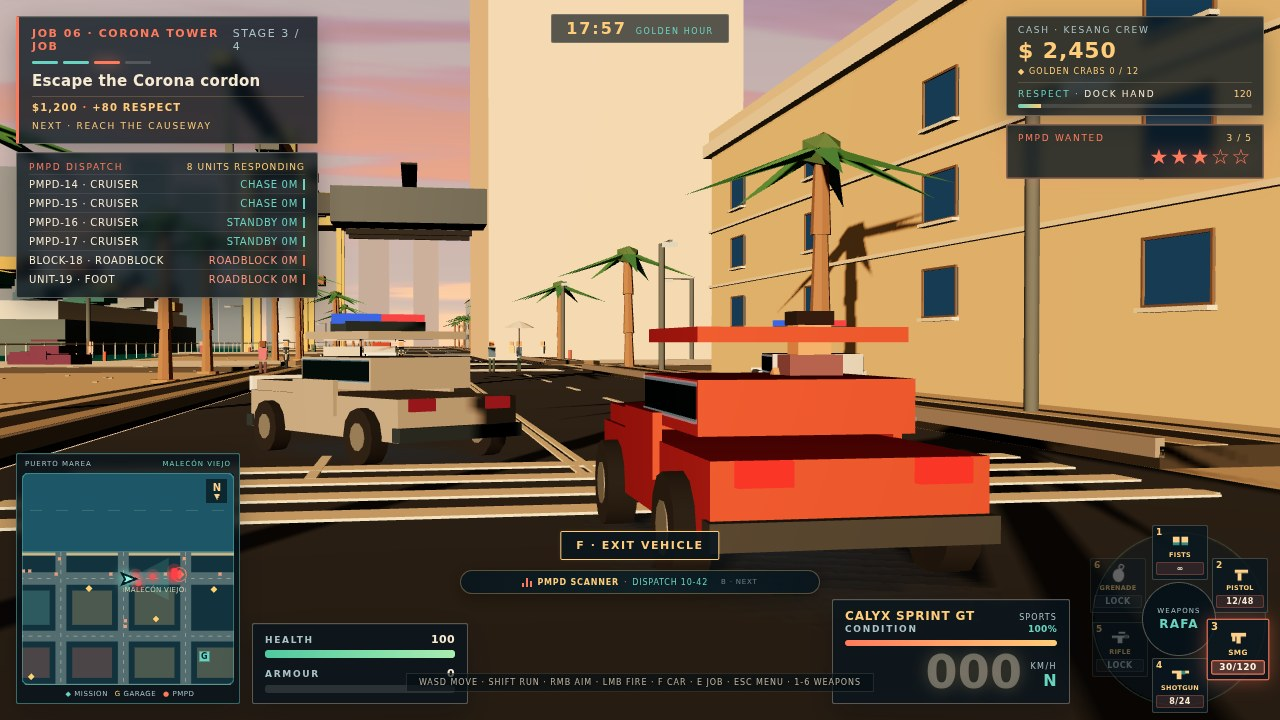
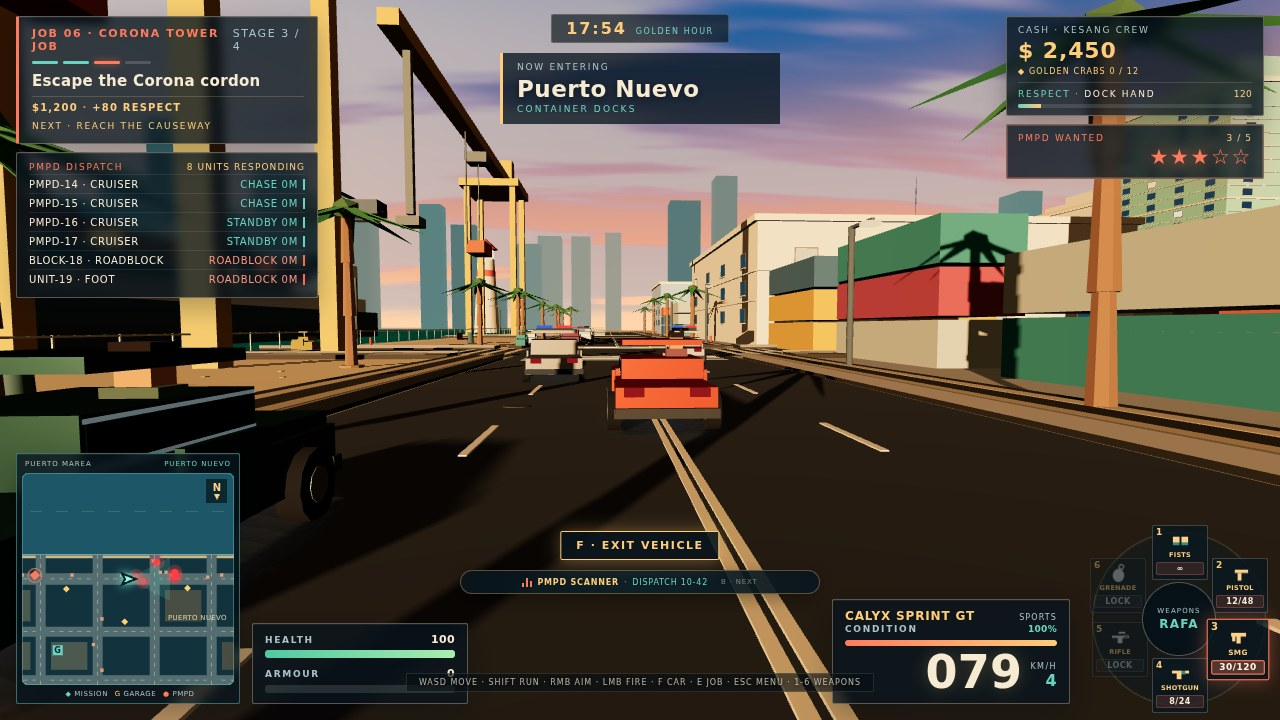
shot: round 5 wide coastal chase cover

diff --git a/game/src/ui/screenshots.js b/game/src/ui/screenshots.js
@@ -358,18 +358,16 @@ function fitHeroCamera(game, hero, forward, options = {}) {
 }
 
 async function stageChase(game) {
-  game.timeOfDay = 17.95;
+  game.timeOfDay = 17.9;
   game.engine.setTimeOfDay(game.timeOfDay);
 
-  // Keep the key light just above the waterline so the frame holds a long warm band.
-  const elevation = THREE.MathUtils.degToRad(9);
+  // Keep the key light low so the frame holds a long warm band over the water.
+  const elevation = THREE.MathUtils.degToRad(8.5);
   const azimuth = -2.72;
   const horizontal = Math.sqrt(Math.max(0.001, 1 - Math.sin(elevation) * Math.sin(elevation)));
   game.engine.sunDirection = new THREE.Vector3(Math.cos(azimuth) * horizontal, Math.sin(elevation), Math.sin(azimuth) * horizontal).normalize();
   game.engine.skyUniforms.sunDirection.value.copy(game.engine.sunDirection);
   game.engine.skyUniforms.night.value = 0;
-
-  // Warm sky bounce, so the shaded flank of the hero still reads on the dark asphalt.
   game.engine.hemi.intensity = 0.5;
   game.engine.hemi.color.set('#ffd3a6');
   game.engine.hemi.groundColor.set('#6b6250');
@@ -378,14 +376,14 @@ async function stageChase(game) {
   const hero = game.heroVehicle;
   const heading = Math.PI / 2;
   const { forward, left } = frameBasis(heading);
-  const heroPos = new THREE.Vector3(-74, 0, -21.3);
+  const heroPos = new THREE.Vector3(116, 0, -22);
 
-  game.shotSpeed = 0;
+  game.shotSpeed = 22;
   if (hero) {
     hero.position.copy(heroPos);
     hero.heading = heading;
-    hero.speed = 0;
-    hero.braking = true;
+    hero.speed = 22;
+    hero.braking = false;
     hero.mesh.position.copy(hero.position);
     hero.mesh.rotation.y = hero.heading;
     game.player.enterVehicle(hero);
@@ -411,21 +409,15 @@ async function stageChase(game) {
   game.police.dispatch = () => {};
   game.police.cooldowns.roadblock = 9999;
   game.police.update = () => {};
-  clearTrafficNear(game, heroPos, 46);
+  clearTrafficNear(game, heroPos, 60);
 
   if (hero) {
     hero.position.copy(heroPos);
     hero.heading = heading;
-    hero.speed = 0;
-    hero.braking = true;
+    hero.speed = 22;
     hero.mesh.position.copy(hero.position);
     hero.mesh.rotation.y = hero.heading;
     game.player.position.copy(hero.position);
-    const baseUpdate = hero.update.bind(hero);
-    hero.update = (dt) => {
-      baseUpdate(dt);
-      for (const lamp of hero.brakeLights) lamp.material.color.set('#ff2a20');
-    };
   }
 
   const cruisers = game.police.units.filter((unit) => unit.kind === 'CRUISER' && unit.vehicle);
@@ -433,11 +425,11 @@ async function stageChase(game) {
     const vehicle = unit.vehicle;
     if (!vehicle) return;
     if (index < 2) {
-      const ahead = index === 0 ? 9.5 : 13.2;
-      const side = index === 0 ? 3.6 : -5.0;
+      const ahead = index === 0 ? 18 : 28;
+      const side = index === 0 ? 3.4 : -3.4;
       vehicle.position.copy(heroPos).addScaledVector(forward, ahead).addScaledVector(left, side);
-      vehicle.heading = heading + (index === 0 ? 0.55 : -0.2);
-      vehicle.speed = 0;
+      vehicle.heading = heading + (index === 0 ? 0.08 : -0.08);
+      vehicle.speed = 22;
       vehicle.maxSpeed = 0;
       vehicle.parked = false;
       vehicle.mesh.position.copy(vehicle.position);
@@ -446,7 +438,7 @@ async function stageChase(game) {
       unit.position = vehicle.position;
       unit.tactic = 'CHASE';
     } else {
-      vehicle.position.set(heroPos.x + 210 + index * 12, 0, heroPos.z + 8);
+      vehicle.position.set(heroPos.x + 260 + index * 12, 0, heroPos.z + 8);
       vehicle.speed = 0;
       vehicle.maxSpeed = 0;
       vehicle.mesh.position.copy(vehicle.position);
@@ -464,52 +456,44 @@ async function stageChase(game) {
     if (heli.spotlightCone) heli.spotlightCone.visible = false;
   }
 
-  const pose = hero ? fitHeroCamera(game, hero, forward) : null;
-  game.shotSpeed = 0;
+  const cameraPos = heroPos.clone().addScaledVector(forward, -7.5).addScaledVector(left, 1.2).setY(2.2);
+  const lookAt = heroPos.clone().addScaledVector(forward, 14).setY(1.0);
+  game.shotSpeed = 22;
   game.shotCamera = null;
-  lockCamera(game, true, 0, {});
-  if (pose) pinCamera(game, pose.position, pose.lookAt, pose.fov);
+  lockCamera(game, true, 22, {});
+  pinCamera(game, cameraPos, lookAt, 62);
   game.engine.camera.updateMatrixWorld(true);
 
   if (heli) {
-    const heliPos = worldAtNdc(game.engine.camera, -0.36, 0.42, 42);
+    const heliPos = worldAtNdc(game.engine.camera, -0.45, 0.42, 60);
     heli.mesh.position.copy(heliPos);
     heli.position.copy(heliPos);
-    if (heli.spotlight) {
-      heli.spotlight.position.copy(heliPos);
-      heli.spotlight.target.position.copy(heroPos).setY(0.5);
-      heli.spotlight.target.updateMatrixWorld();
-    }
   }
 
   const camera = game.engine.camera;
-  const cameraPos = camera.position;
   const heroSpan = hero ? projectedSpan(camera, vehicleCorners(hero)) : null;
   const cruiserSpans = cruisers.slice(0, 2).filter((unit) => unit.vehicle).map((unit) => projectedSpan(camera, vehicleCorners(unit.vehicle)));
   const heliSpan = heli ? projectedSpan(camera, meshSilhouettePoints(heli.mesh)) : null;
   const nearestToCamera = Math.min(...game.traffic.vehicles
     .filter((vehicle) => vehicle !== hero)
     .map((vehicle) => cameraPos.distanceTo(vehicle.position)));
-  const wallFraction = largestBuildingFaceFraction(camera);
   const report = {
     camera: cameraPos.toArray().map((value) => Number(value.toFixed(2))),
-    fit: pose ? pose.report : null,
     heroWidthOfFrame: heroSpan ? Number(heroSpan.width.toFixed(3)) : null,
     hero: heroSpan ? { minX: Number(heroSpan.minX.toFixed(2)), maxX: Number(heroSpan.maxX.toFixed(2)), minY: Number(heroSpan.minY.toFixed(2)), maxY: Number(heroSpan.maxY.toFixed(2)) } : null,
     cruisers: cruiserSpans.map((span) => (span ? { minX: Number(span.minX.toFixed(2)), maxX: Number(span.maxX.toFixed(2)), minY: Number(span.minY.toFixed(2)), maxY: Number(span.maxY.toFixed(2)) } : null)),
     heli: heliSpan ? { minX: Number(heliSpan.minX.toFixed(2)), maxX: Number(heliSpan.maxX.toFixed(2)), minY: Number(heliSpan.minY.toFixed(2)), maxY: Number(heliSpan.maxY.toFixed(2)) } : null,
     nearestVehicleToCamera: Number(nearestToCamera.toFixed(2)),
-    largestBuildingFaceOfFrame: Number(wallFraction.toFixed(3)),
   };
   console.info('[shot:chase]', JSON.stringify(report));
-  console.assert(heroSpan && heroSpan.width >= 0.22 && heroSpan.width <= 0.40, 'chase hero car must cover 22-40% of the frame width');
-  console.assert(heroSpan && heroSpan.minX > -0.92 && heroSpan.maxX < 0.92 && heroSpan.minY > -0.74 && heroSpan.maxY < 0.85, 'chase hero car must sit whole inside the frame above the bottom bar');
+  console.assert(heroSpan && heroSpan.width >= 0.1 && heroSpan.width <= 0.24, 'chase hero car must cover 10-24% of the frame width');
+  console.assert(heroSpan && heroSpan.minX > -0.9 && heroSpan.maxX < 0.9 && heroSpan.minY > -0.62 && heroSpan.maxY < 0.6, 'chase hero car must sit whole inside the frame above the bottom bar');
   console.assert(cruiserSpans.length === 2 && cruiserSpans.every((span) => span && span.minX > -1 && span.maxX < 1 && span.minY > -1 && span.maxY < 1), 'both chase cruisers must be whole inside the frame');
-  console.assert(heliSpan && heliSpan.minY >= 0.3 && heliSpan.maxY <= 0.95, 'chase helicopter must sit in the upper third of the frame');
+  console.assert(heliSpan && heliSpan.minY >= 0.28 && heliSpan.maxY <= 0.9, 'chase helicopter must sit in the upper part of the sky');
   console.assert(nearestToCamera >= 6, 'chase camera must be clear of parked vehicles within 6m');
-  console.assert(wallFraction < 0.65, 'chase largest building face must stay under 65% of frame width');
   return true;
 }
+
 
 async function stageShootout(game) {
   game.timeOfDay = 22.1;
